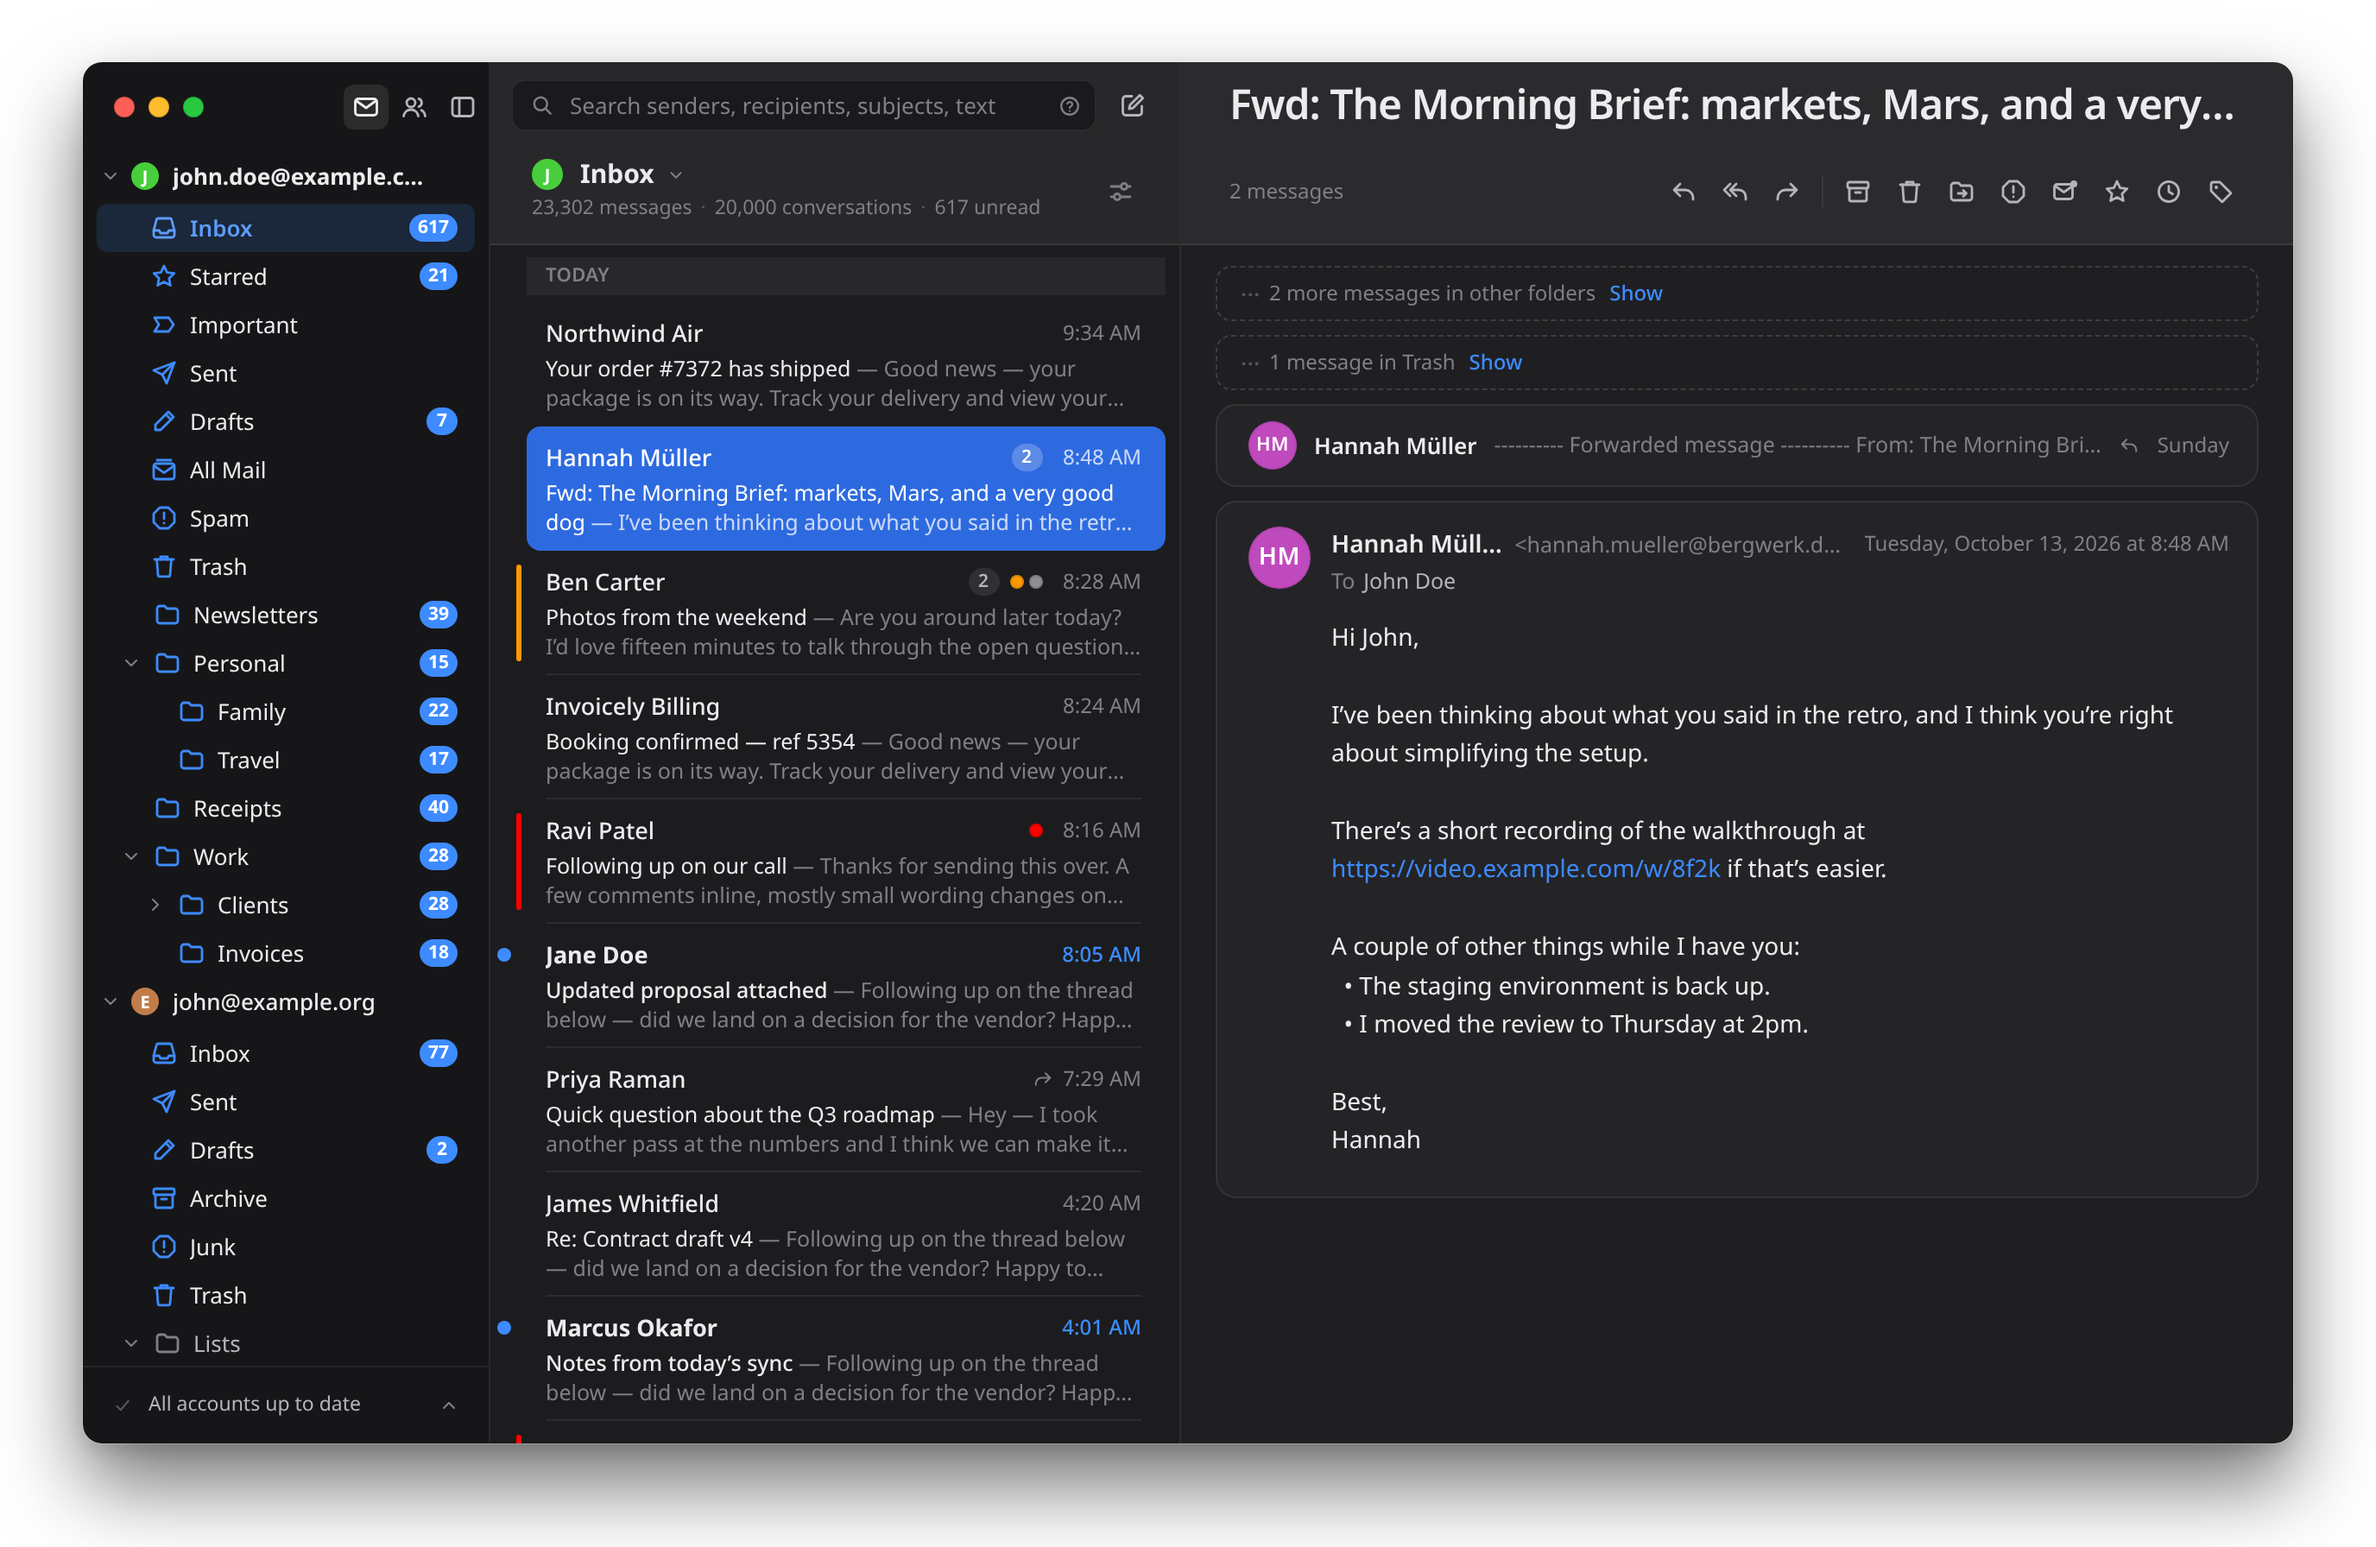
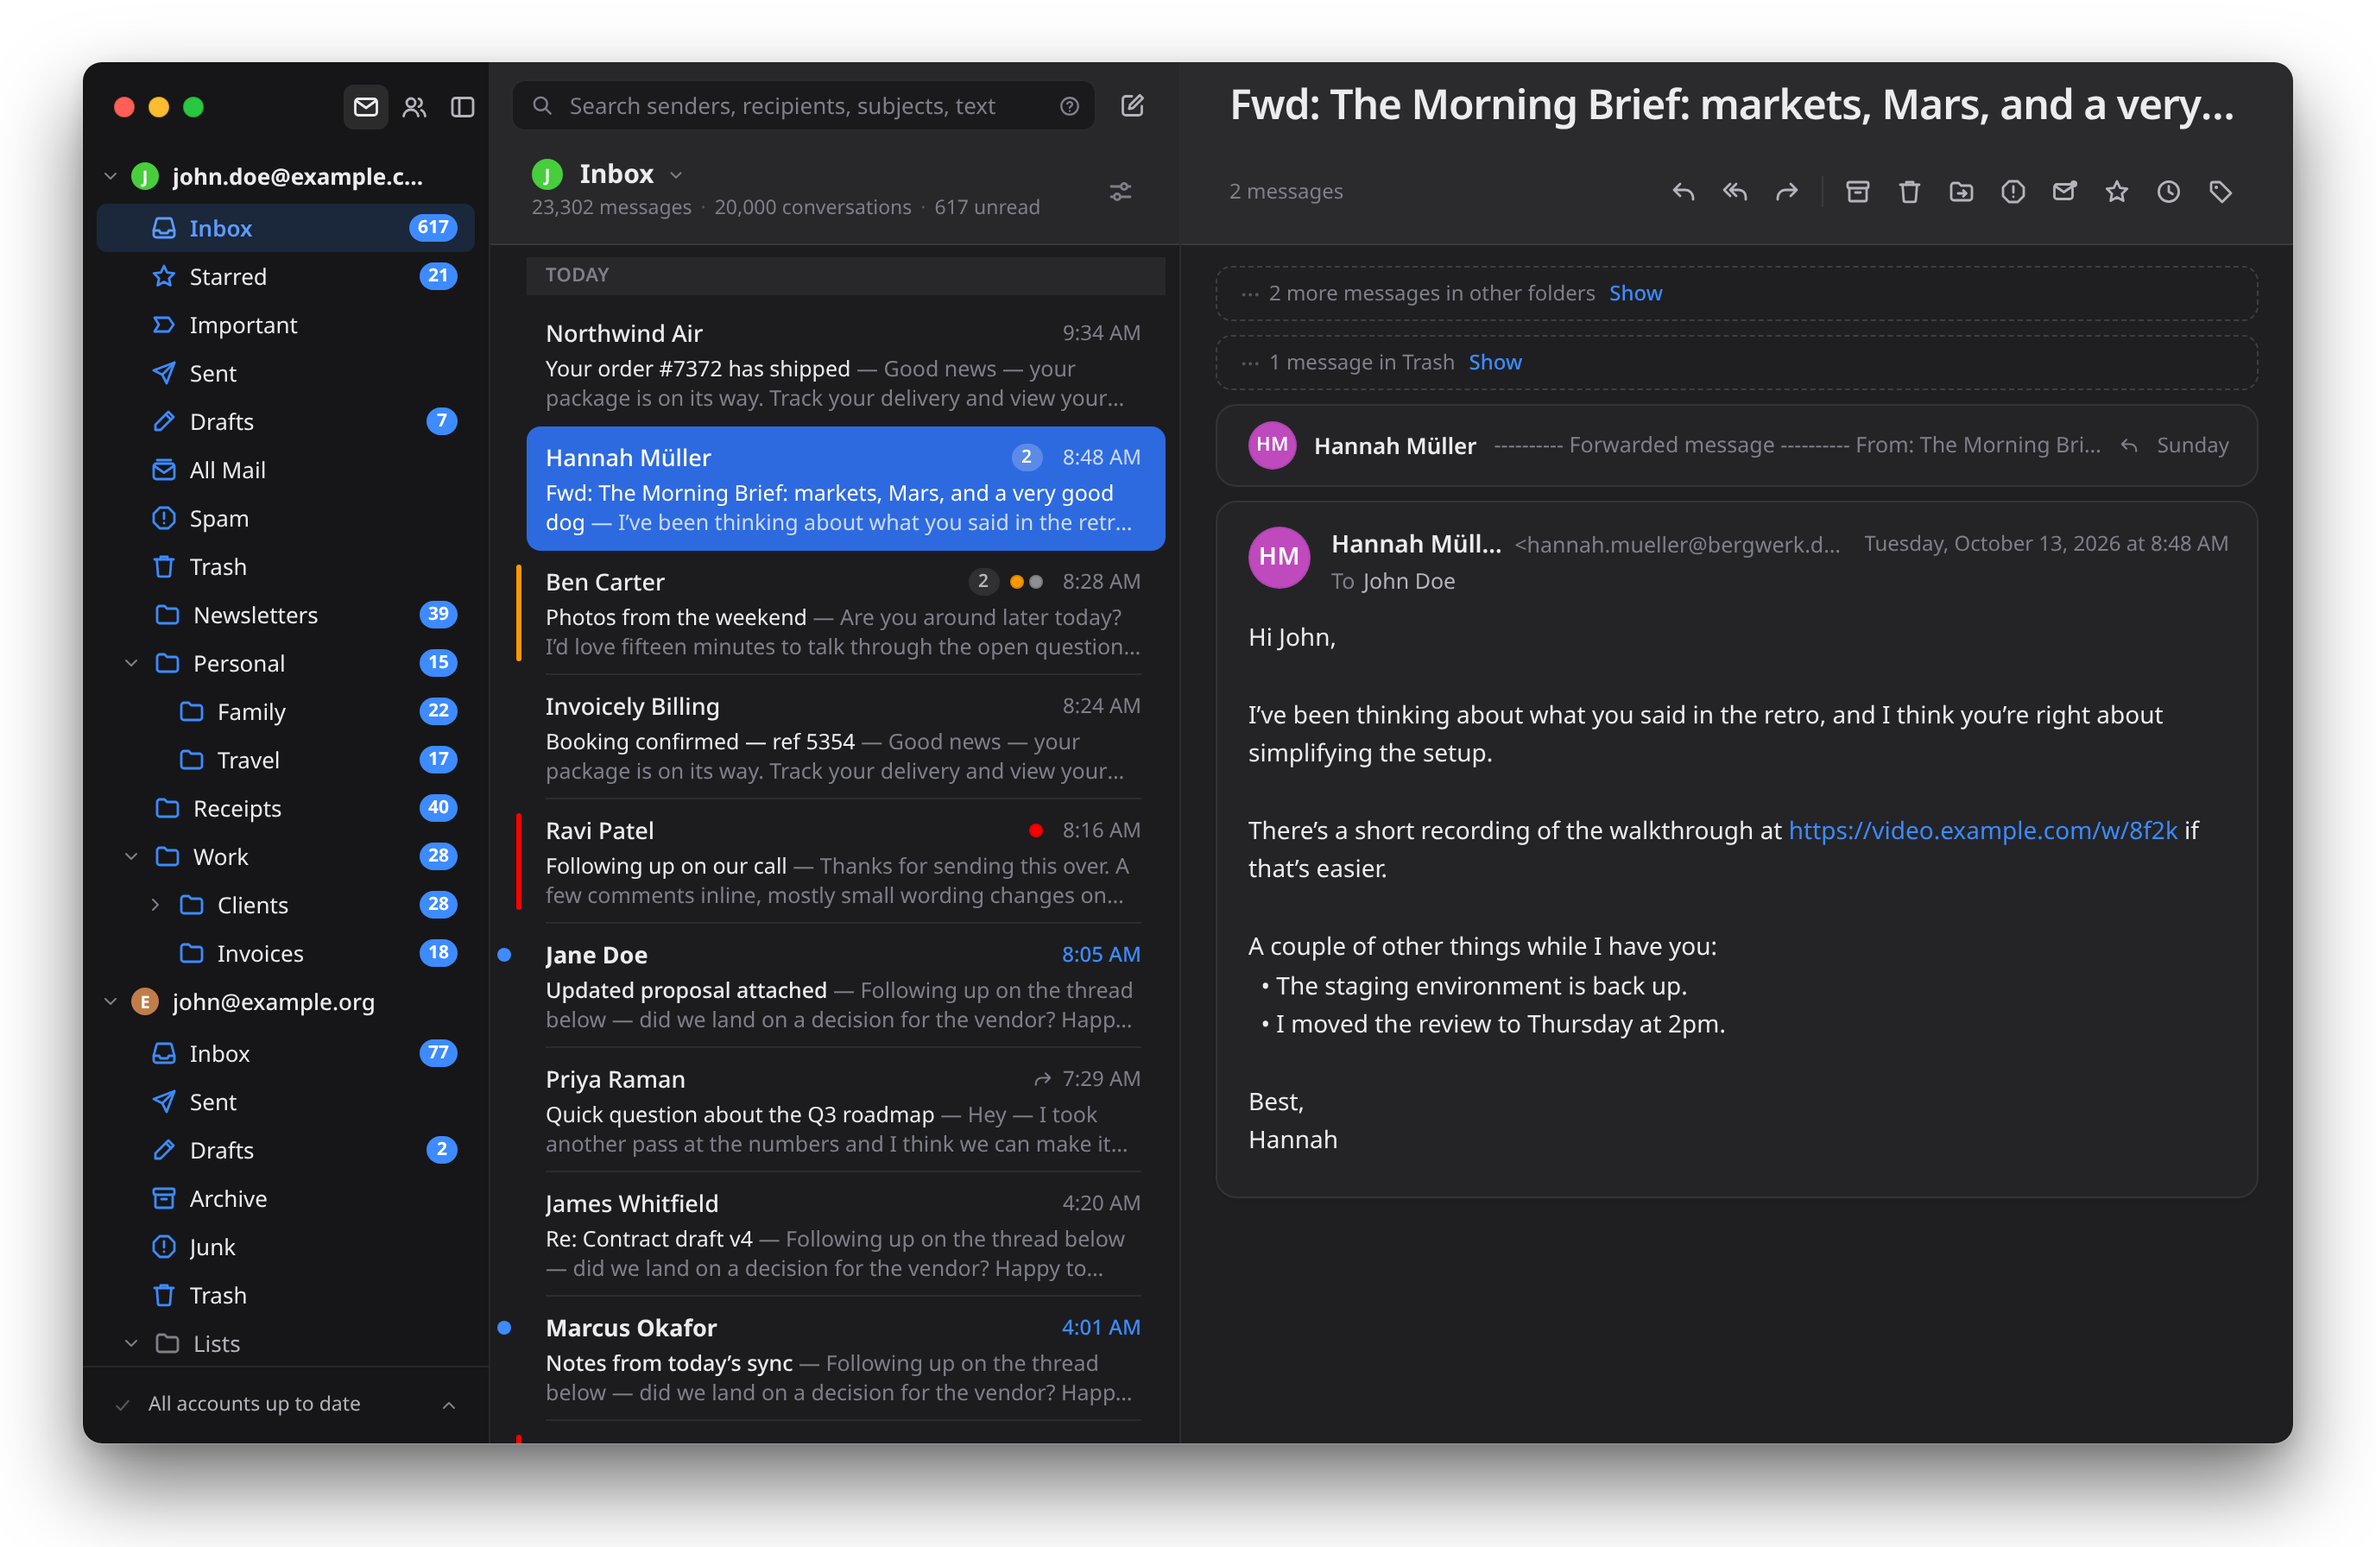
Reader and conversation cards: one left edge; the images notice is a flat strip
The subject, sender, attachment chips, images notice and message text start on one edge: 28px
in the reader, 18px in a conversation card (HTML messages sat a few pixels off, chips and plain
text in cards were indented to the name). "Remote images blocked" is a flat tinted strip, no
border or rounded corners, so it reads as a notice rather than a button. Screenshots updated.

diff --git a/app/src/styles.css b/app/src/styles.css
@@ -980,16 +980,15 @@ body.resizing iframe {
   font-variant-numeric: tabular-nums;
 }
 
+/* A notice, not a control: a flat tinted strip, its text on the reader's 28px edge. */
 .remote-banner {
   flex: none;
   display: flex;
   align-items: center;
   gap: 6px;
-  margin: 0 28px 12px;
-  padding: 6px 12px;
-  border-radius: 8px;
+  margin: 0;
+  padding: 7px 28px;
   background: var(--bg-subtle);
-  border: 1px solid var(--sep);
   color: var(--text-2);
   font-size: 12.5px;
   animation: fade-in 160ms var(--ease);
@@ -1563,7 +1562,8 @@ body.resizing iframe {
   min-height: 17px;
 }
 .cm-banner {
-  margin: 0 16px 10px 66px;
+  margin: 0 0 10px;
+  padding: 6px 18px;
 }
 .cm-body {
   position: relative;
@@ -1572,13 +1572,13 @@ body.resizing iframe {
 .cm-body .plain {
   position: static;
   overflow: visible;
-  padding: 2px 20px 20px 66px;
+  padding: 2px 18px 20px;
 }
 .cm-body .body-loading {
-  padding: 4px 20px 20px 66px;
+  padding: 4px 18px 20px;
 }
 .cm-body .body-error {
-  padding: 12px 20px 20px 66px;
+  padding: 12px 18px 20px;
 }
 .card-frame-wrap {
   background: #fff;
@@ -2716,9 +2716,9 @@ body.resizing iframe {
   padding: 2px 0 10px;
   min-height: 28px;
 }
-/* in the reader: under the sender, lined up with the name */
+/* in the reader: under the sender, on the page's edge like the message */
 .reader-head .att-chips {
-  padding: 12px 0 0 52px;
+  padding: 12px 0 0;
 }
 .att-chips-ph {
   min-height: 38px;
@@ -2774,8 +2774,8 @@ body.resizing iframe {
 /* in a conversation card: under its header, lined up with its text */
 .cm-att,
 .att-chips-ph.cm-att {
-  padding-left: 66px;
-  padding-right: 16px;
+  padding-left: 18px;
+  padding-right: 18px;
 }
 .att-icon {
   flex: none;

diff --git a/app/src/components/Conversation.tsx b/app/src/components/Conversation.tsx
@@ -32,7 +32,8 @@ import { isTextInput } from './ShortcutsSheet';
 
 /** Extra CSS for card bodies: compact padding, never scroll inside the frame: the conversation
  * does, down and (for a message wider than the pane) sideways. */
-const CARD_FRAME_CSS = 'html{overflow:hidden}body{padding:4px 20px 20px}';
+// The message's sides on the card's 18px edge, as the avatar, chips and plain text.
+const CARD_FRAME_CSS = 'html{overflow:hidden}body{padding:4px 18px 20px}';
 
 
 // ------------------------------------------------------------- cards

diff --git a/app/src/components/Reader.tsx b/app/src/components/Reader.tsx
@@ -243,7 +243,8 @@ const actionTarget = (): ActionTarget | null => {
 };
 
 /** The reader's page scrolls, not the message's own frame: it grows to its content. */
-const PAGE_FRAME_CSS = 'html{overflow:hidden}';
+// The message's sides on the reader's 28px edge, as the subject, sender, chips and plain text.
+const PAGE_FRAME_CSS = 'html{overflow:hidden}body{padding-left:28px;padding-right:28px}';
 
 export function Reader(props: { ref?: (el: HTMLElement) => void }) {
   let scrollEl: HTMLDivElement | undefined;
